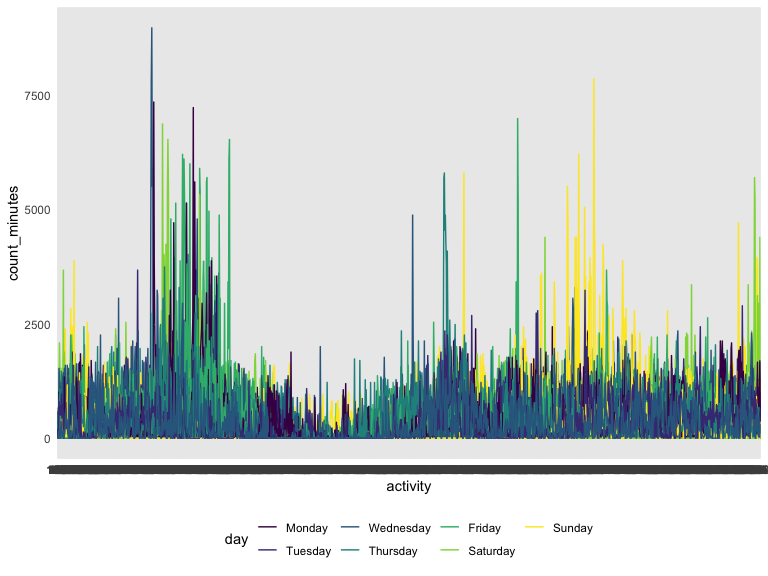
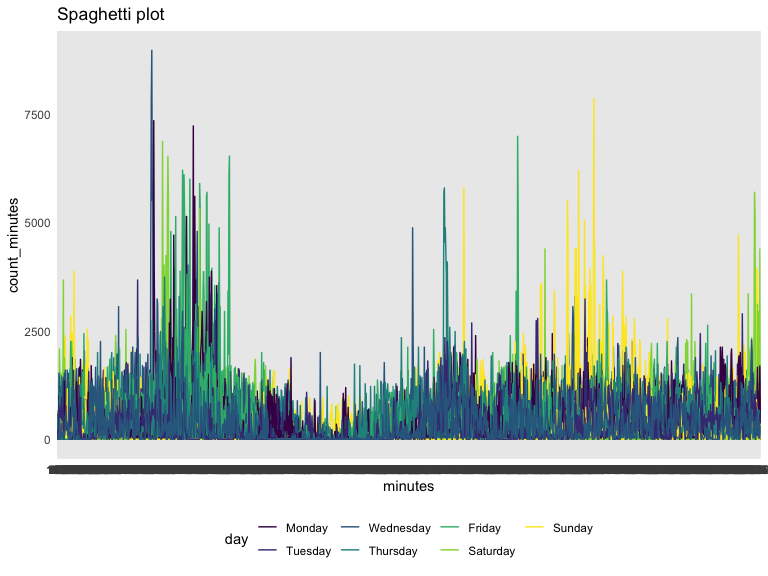
hw3 is finished

diff --git a/p8105_hw3_xc2472.md b/p8105_hw3_xc2472.md
@@ -384,7 +384,11 @@ particular trend can be found.
 ``` r
 accel_tidy_data %>% 
   ggplot(aes(x = activity, y = count_minutes, group = day_id, color = day)) +
-  geom_line() 
+  geom_line() +
+  labs(
+    title = "Spaghetti plot",
+    x = "minutes"
+  )
 ```
 
 ![](p8105_hw3_xc2472_files/figure-gfm/unnamed-chunk-12-1.png)<!-- -->
